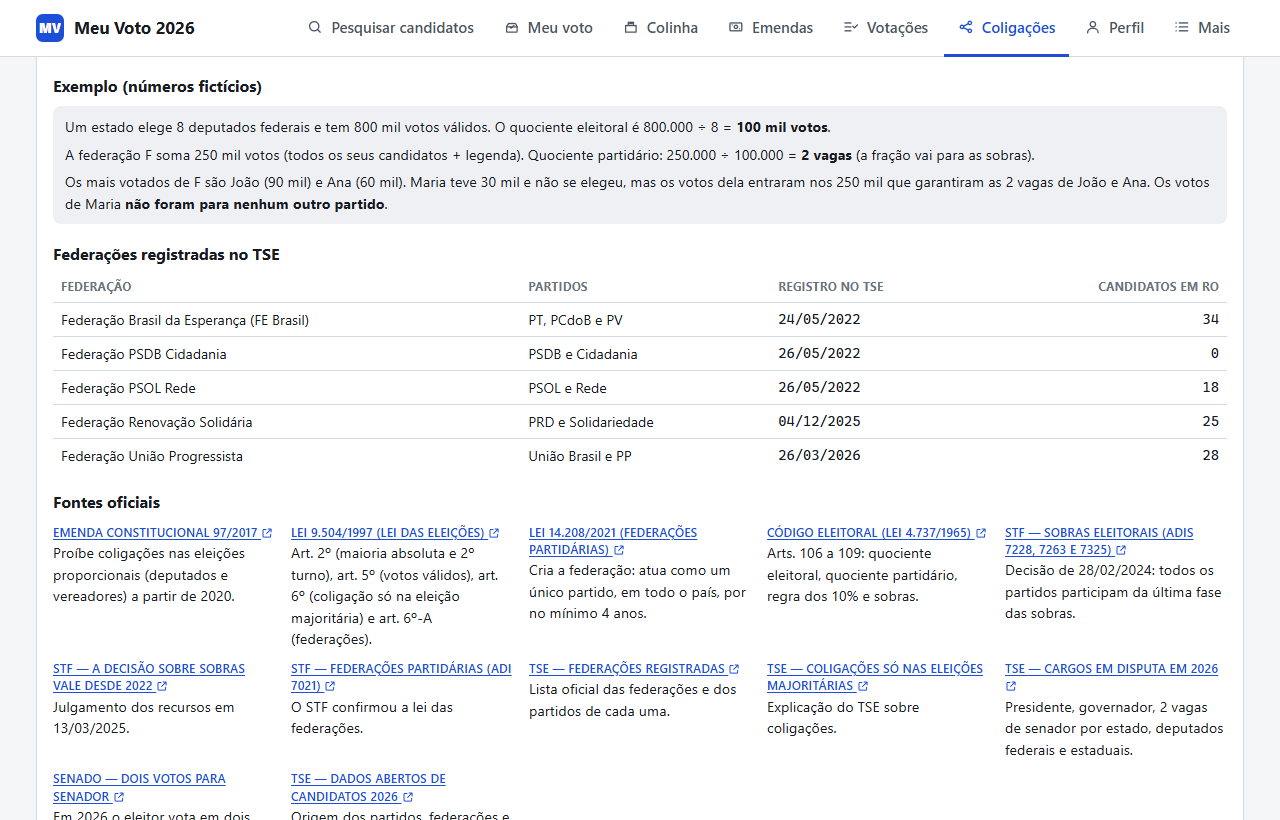
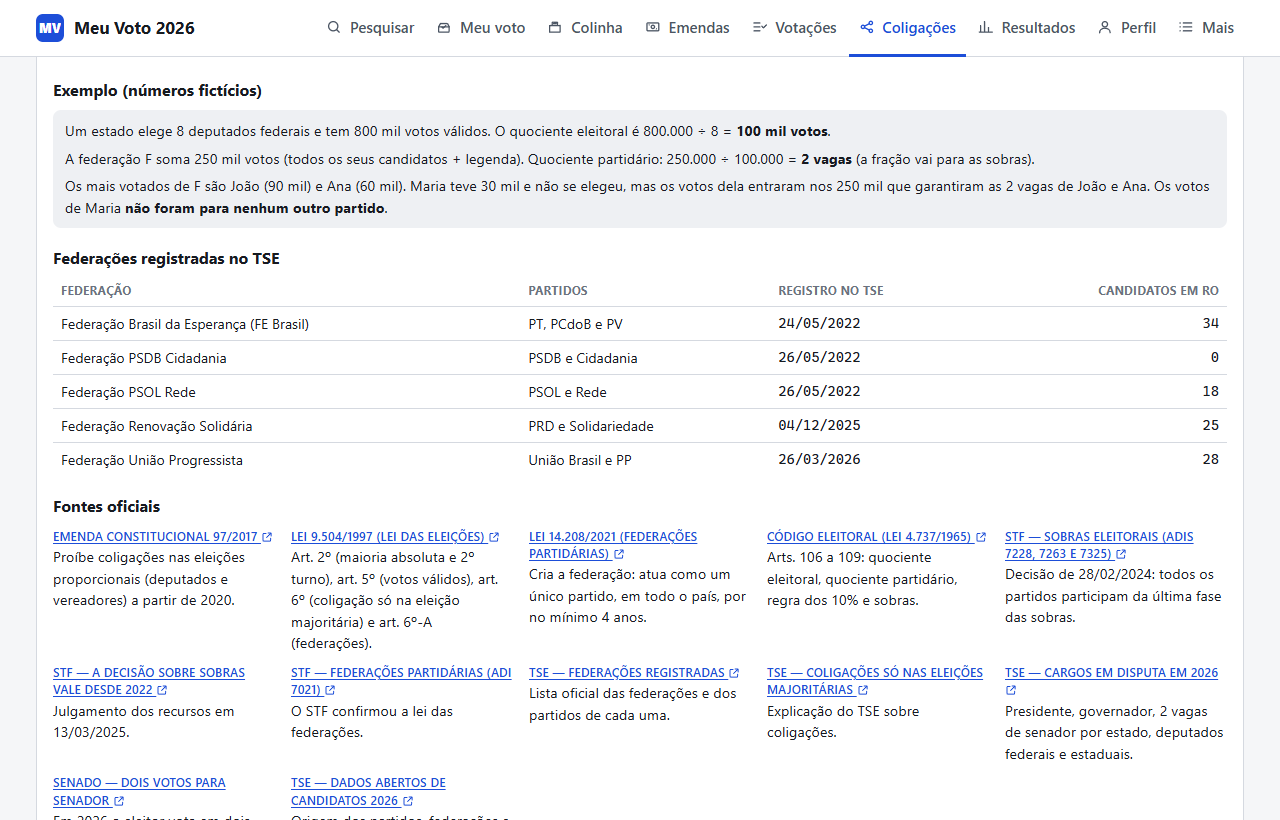
docs(readme): refaz as capturas com o menu novo (aba Resultados) e atualiza tamanhos e última rodada de testes

diff --git a/README.md b/README.md
@@ -116,7 +116,7 @@ DivulgaCandContas.
 
 | Arquivo | O que faz |
 |---|---|
-| `mobile/meu-voto-mobile.html` | **Versão celular, offline**: um único arquivo com tudo que o desktop tem (pesquisa, ficha completa, critérios, ranking, colinha para imprimir, salvar em PNG ou compartilhar, denúncias, fontes, dados da Câmara, emendas). RO + presidente com fotos: cerca de 14 MB. `mobile/meu-voto-mobile-brasil.html`: idem com as 27 UFs (cerca de 74 MB, carregadas sob demanda). Gerados por `scripts/build_mobile.py`. |
+| `mobile/meu-voto-mobile.html` | **Versão celular, offline**: um único arquivo com tudo que o desktop tem (pesquisa, ficha completa, critérios, ranking, colinha para imprimir, salvar em PNG ou compartilhar, denúncias, fontes, dados da Câmara, emendas, coligações, resultados da eleição). RO + presidente com fotos: cerca de 16 MB. `mobile/meu-voto-mobile-brasil.html`: idem com as 27 UFs (cerca de 104 MB, carregadas sob demanda). Gerados por `scripts/build_mobile.py`. |
 | `index.html` | **Pesquisa geral**: todos os 20.063 candidatos do Brasil, com busca por nome/número e filtros (UF, cargo, partido, situação, reeleição, gênero, município/UF de nascimento, **município onde já disputou eleição**, já foi eleito, motivo de indeferimento, idade, escolaridade, ocupação, meus marcadores). Clique no candidato para ver a ficha completa. |
 | `meu-voto.html` | Quatro telas, as mesmas do celular (**Meu voto · Colinha · Perfil · Mais**; o menu do topo leva também às outras páginas). **Meu voto**: abas por cargo (com o nº de vagas real), painel de critérios com pesos, ranking com score e explicação, botão "Escolher". **Colinha**: cartão no padrão da "colinha" do e-Título — ordem da urna, dígitos em caixas, foto, nome, partido, vice/suplentes; toque em um item para abrir a ficha; botões **Imprimir / salvar PDF** (A4, sem cabeçalho do navegador) e **Compartilhar** (menu de compartilhamento do celular ou área de transferência). **Mais**: denúncias Pardal e fontes externas. Em janelas estreitas o menu vai para a barra inferior, como no celular. |
 | `emendas.html` | **Emendas parlamentares**: escolha um município de RO (abre no município do seu Perfil) e veja **quem mandou dinheiro de emendas para lá** — ranking por parlamentar (destinado × pago/recebido), destaque para quem é candidato em 2026, e a lista item a item com ano, área, objeto e quem recebeu. Filtros: federal/estadual, ano, só candidatos, com/sem emendas coletivas (bancada, comissão, relator). Gerado por `scripts/fetch_emendas.py`. |
@@ -318,7 +318,7 @@ no arquivo: a ficha mostra um link para os mesmos documentos no DivulgaCandConta
 Favoritos/escolhas ficam salvos no navegador do celular; o Exportar/Importar usa o mesmo JSON do
 computador. Rode de novo depois de cada `build_data.py` / `fetch_camara.py` / `fetch_emendas.py` / `fetch_alero.py` / `fetch_votacoes_federais.py` para atualizar.
 
-### Atualizar tudo e conferir (use na semana da eleição)
+### Atualizar tudo e conferir (inclui os resultados da eleição)
 
 ```
 python scripts\atualizar_tudo.py            # baixa o que mudou no TSE, regera dados, emendas e celular, e testa
@@ -351,8 +351,10 @@ python scripts\testes\rodar_testes.py --cruzado  # tudo + auditoria cruzada com 
   gerados contra as APIs oficiais (SAPL da ALE-RO, Câmara, Senado) e o TSE, e compara os cálculos feitos no
   navegador com os feitos em Python. Relatório em `scripts/testes/saida/auditoria_cruzada.md`.
 
-Última rodada completa (24/09/2026): os três testes passaram; a auditoria cruzada teve 32 verificações OK,
-nenhuma falha e 1 alerta que vem da própria fonte (placar de um veto de 2017 no SAPL).
+Última rodada (06/10/2026, com os resultados do 1º turno): dados 116 OK e interface 215 OK, sem falhas. Os
+avisos foram só de atualidade (PE ainda sem proclamação do TSE; base de candidatos e emendas de alguns dias atrás).
+Última auditoria cruzada (24/09/2026): 32 verificações OK, nenhuma falha e 1 alerta que vem da própria fonte
+(placar de um veto de 2017 no SAPL).
 
 ## 3. Usar
 
